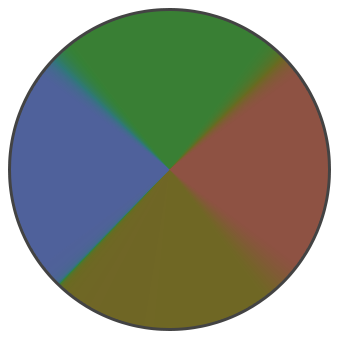
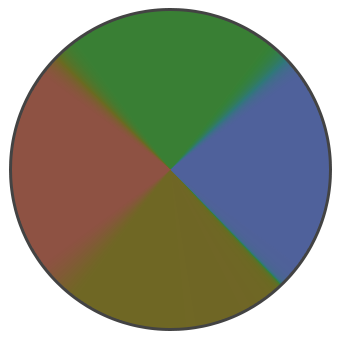
Tweaking of the sun and moon disk to be a bit nicer

diff --git a/src/views/sunandmoon-disks-pixi.js b/src/views/sunandmoon-disks-pixi.js
@@ -20,7 +20,8 @@ export const SUN_AND_MOON_DISKS_LAYOUT = {
     y: 200,
     scale: 0.5,
     alpha: 1.0,
-    rotationOffsetRad: 3,
+    rotationOffsetRad: 0,
+    playheadOffsetRad: -1.55,
     clockwise: true,
     texturePath: "/images/MoonDisk_01.png",
   },
@@ -30,7 +31,8 @@ export const SUN_AND_MOON_DISKS_LAYOUT = {
     y: 200,
     scale: 0.75,
     alpha: 1.0,
-    rotationOffsetRad: 0,
+    rotationOffsetRad: 3,
+    playheadOffsetRad: -.7,
     clockwise: true,
     texturePath: "/images/SeasonDisk_01.png",
     quadrants: 4,
@@ -189,6 +191,70 @@ function getDiskRotationRadAtProjectedSecond({
   return phase01ToRotationRad(phase, getDiskLayout(diskId, layout));
 }
 
+function getDiskPlayheadAngleRad(diskId, layout) {
+  const diskLayout = getDiskLayout(diskId, layout) || {};
+  const phaseZeroAngle = phase01ToRotationRad(0, diskLayout);
+  const offset = Number.isFinite(diskLayout.playheadOffsetRad)
+    ? diskLayout.playheadOffsetRad
+    : 0;
+  return phaseZeroAngle + offset;
+}
+
+function getDragDeltaRotationFromAnchorRad(
+  diskId,
+  layout,
+  dragStartSec,
+  targetSec,
+  anchorAngleRad
+) {
+  const startSec = Number.isFinite(dragStartSec) ? dragStartSec : 0;
+  const endSec = Number.isFinite(targetSec) ? targetSec : startSec;
+  const secPerRev = getDiskSecondsPerRevolution(diskId, layout);
+  const diskLayout = getDiskLayout(diskId, layout) || {};
+  const dir = diskLayout.clockwise ? 1 : -1;
+  const deltaPhase = (endSec - startSec) / Math.max(1, secPerRev);
+  const anchor = Number.isFinite(anchorAngleRad)
+    ? anchorAngleRad
+    : getDiskPlayheadAngleRad(diskId, layout);
+  return anchor + dir * deltaPhase * TWO_PI;
+}
+
+function drawInwardPlayheadTriangle(
+  gfx,
+  cx,
+  cy,
+  angleRad,
+  {
+    tipRadius,
+    baseRadius,
+    halfWidth,
+    fillColor = 0xffffff,
+    fillAlpha = 0.96,
+    strokeColor = 0x0f1220,
+    strokeAlpha = 0.95,
+    strokeWidth = 2,
+  } = {}
+) {
+  const tipX = cx + Math.cos(angleRad) * tipRadius;
+  const tipY = cy + Math.sin(angleRad) * tipRadius;
+
+  const baseCx = cx + Math.cos(angleRad) * baseRadius;
+  const baseCy = cy + Math.sin(angleRad) * baseRadius;
+
+  const px = Math.cos(angleRad + Math.PI * 0.5) * halfWidth;
+  const py = Math.sin(angleRad + Math.PI * 0.5) * halfWidth;
+
+  const b1x = baseCx + px;
+  const b1y = baseCy + py;
+  const b2x = baseCx - px;
+  const b2y = baseCy - py;
+
+  gfx.lineStyle(strokeWidth, strokeColor, strokeAlpha);
+  gfx.beginFill(fillColor, fillAlpha);
+  gfx.drawPolygon([tipX, tipY, b1x, b1y, b2x, b2y]);
+  gfx.endFill();
+}
+
 function getFrontierSec({ getTimeline, getState }) {
   const timeline = typeof getTimeline === "function" ? getTimeline() : null;
   const timelineSec = Math.floor(timeline?.historyEndSec ?? -1);
@@ -252,6 +318,10 @@ export function createSunAndMoonDisksView({
   let pendingBrowseSec = null;
   let commitRafId = 0;
   let pendingCommitSec = null;
+  const persistentTargetAngleByDisk = {
+    moon: null,
+    season: null,
+  };
 
   let stageMoveHandler = null;
   let stageUpHandler = null;
@@ -322,12 +392,17 @@ export function createSunAndMoonDisksView({
     if (!Number.isFinite(angle)) return;
 
     const frontierSec = getFrontierSec({ getTimeline, getState });
+    const persistedTargetAngle = persistentTargetAngleByDisk[diskId];
+    const anchorAngle = Number.isFinite(persistedTargetAngle)
+      ? persistedTargetAngle
+      : getDiskPlayheadAngleRad(diskId, layout);
 
     dragSession = {
       diskId,
       pointerId: Number.isFinite(event.pointerId) ? event.pointerId : null,
       lastAngleRad: angle,
       dragStartFrontierSec: frontierSec,
+      targetAngleStartRad: anchorAngle,
       accumSec: 0,
       lastForwardTargetSec: null,
       lastMode: null,
@@ -483,6 +558,29 @@ export function createSunAndMoonDisksView({
       feedbackText.text = "";
     }
 
+    const diskIdForFeedback = getActiveDiskIdForForwardFeedback(forwardStatus);
+    const sprite = getSpriteByDiskId(diskIdForFeedback);
+    if (!sprite || !state) return;
+
+    const cx = sprite.x;
+    const cy = sprite.y;
+    const baseRadius = Math.max(sprite.width, sprite.height) * 0.5;
+    const ringRadius = Number.isFinite(baseRadius) && baseRadius > 0 ? baseRadius + 10 : 36;
+
+    const playheadAngle = getDiskPlayheadAngleRad(diskIdForFeedback, layout);
+    feedbackGraphics.lineStyle(1, 0x8ec3f2, 0.45);
+    feedbackGraphics.drawCircle(cx, cy, ringRadius);
+    drawInwardPlayheadTriangle(feedbackGraphics, cx, cy, playheadAngle, {
+      tipRadius: ringRadius - 0.5,
+      baseRadius: ringRadius + 9,
+      halfWidth: 5.5,
+      fillColor: 0xffffff,
+      fillAlpha: 0.98,
+      strokeColor: 0x0f1220,
+      strokeAlpha: 0.98,
+      strokeWidth: 2,
+    });
+
     const hasDragVisualTarget =
       strategy === "B" &&
       !!dragSession &&
@@ -493,42 +591,57 @@ export function createSunAndMoonDisksView({
         ? Math.max(0, Math.floor(targetSec))
         : null;
 
-    if (!Number.isFinite(resolvedTargetSec)) return;
-    if (!hasDragVisualTarget && resolvedTargetSec <= frontierSec) return;
+    const hasTargetVisual =
+      Number.isFinite(resolvedTargetSec) &&
+      (hasDragVisualTarget || resolvedTargetSec > frontierSec);
+    if (!hasTargetVisual) return;
 
     const diskId = hasDragVisualTarget
       ? dragSession.diskId
       : getActiveDiskIdForForwardFeedback(forwardStatus);
-    const sprite = getSpriteByDiskId(diskId);
-    if (!sprite || !state) return;
-
-    const cx = sprite.x;
-    const cy = sprite.y;
-    const baseRadius = Math.max(sprite.width, sprite.height) * 0.5;
-    const ringRadius = Number.isFinite(baseRadius) && baseRadius > 0 ? baseRadius + 10 : 36;
+    const targetSprite = getSpriteByDiskId(diskId);
+    if (!targetSprite || !state) return;
+    const targetCx = targetSprite.x;
+    const targetCy = targetSprite.y;
+    const targetBaseRadius = Math.max(targetSprite.width, targetSprite.height) * 0.5;
+    const targetRingRadius =
+      Number.isFinite(targetBaseRadius) && targetBaseRadius > 0
+        ? targetBaseRadius + 10
+        : 36;
 
     // For current A/B testing phase, both strategies share Strategy-B visuals:
     // committed rotation plus ghost target marker/ring.
     void strategy;
 
-    const targetRot = getDiskRotationRadAtProjectedSecond({
-      diskId,
-      state,
-      fromTimeSec: baseTimeSec,
-      targetSec: resolvedTargetSec,
-      layout,
-    });
+    const targetRot = hasDragVisualTarget
+      ? getDragDeltaRotationFromAnchorRad(
+          diskId,
+          layout,
+          dragSession?.dragStartFrontierSec,
+          resolvedTargetSec,
+          dragSession?.targetAngleStartRad
+        )
+      : getDiskRotationRadAtProjectedSecond({
+          diskId,
+          state,
+          fromTimeSec: baseTimeSec,
+          targetSec: resolvedTargetSec,
+          layout,
+        });
+    if (hasDragVisualTarget && (diskId === "moon" || diskId === "season")) {
+      persistentTargetAngleByDisk[diskId] = targetRot;
+    }
 
-    const markerRadius = ringRadius;
-    const mx = cx + Math.cos(targetRot) * markerRadius;
-    const my = cy + Math.sin(targetRot) * markerRadius;
+    const markerRadius = targetRingRadius;
+    const mx = targetCx + Math.cos(targetRot) * markerRadius;
+    const my = targetCy + Math.sin(targetRot) * markerRadius;
     const isAnticlockwiseVisual =
       hasDragVisualTarget &&
       dragSession?.lastRotationDirection === "anticlockwise";
     const markerColor = isAnticlockwiseVisual ? 0xff5c5c : 0x87c7ff;
 
     feedbackGraphics.lineStyle(2, markerColor, 0.8);
-    feedbackGraphics.drawCircle(cx, cy, ringRadius);
+    feedbackGraphics.drawCircle(targetCx, targetCy, targetRingRadius);
     feedbackGraphics.beginFill(markerColor, 0.95);
     feedbackGraphics.drawCircle(mx, my, 5);
     feedbackGraphics.endFill();
@@ -542,8 +655,8 @@ export function createSunAndMoonDisksView({
       } else {
         feedbackText.text = `Target +${Math.max(0, resolvedTargetSec - frontierSec)}s`;
       }
-      feedbackText.x = Math.round(cx - feedbackText.width * 0.5);
-      feedbackText.y = Math.round(cy - ringRadius - feedbackText.height - 6);
+      feedbackText.x = Math.round(targetCx - feedbackText.width * 0.5);
+      feedbackText.y = Math.round(targetCy - targetRingRadius - feedbackText.height - 6);
       feedbackText.visible = true;
     }
   }

diff --git a/src/defs/gamesettings/gamerules-defs.js b/src/defs/gamesettings/gamerules-defs.js
@@ -19,7 +19,7 @@ export const SEASON_DISPLAY = {
 // --- Moon / Action Point Cap ---
 export const MOON_CYCLE_SEC = 30;
 export const MOON_PHASE_OFFSET_SEC = 15;
-export const AP_CAP_MIN = 80;
+export const AP_CAP_MIN = 0;
 export const AP_CAP_MAX = 120;
 export const AP_INCOME_PER_SEC = 1;
 export const AP_INCOME_MULT_WAXING = 8;
